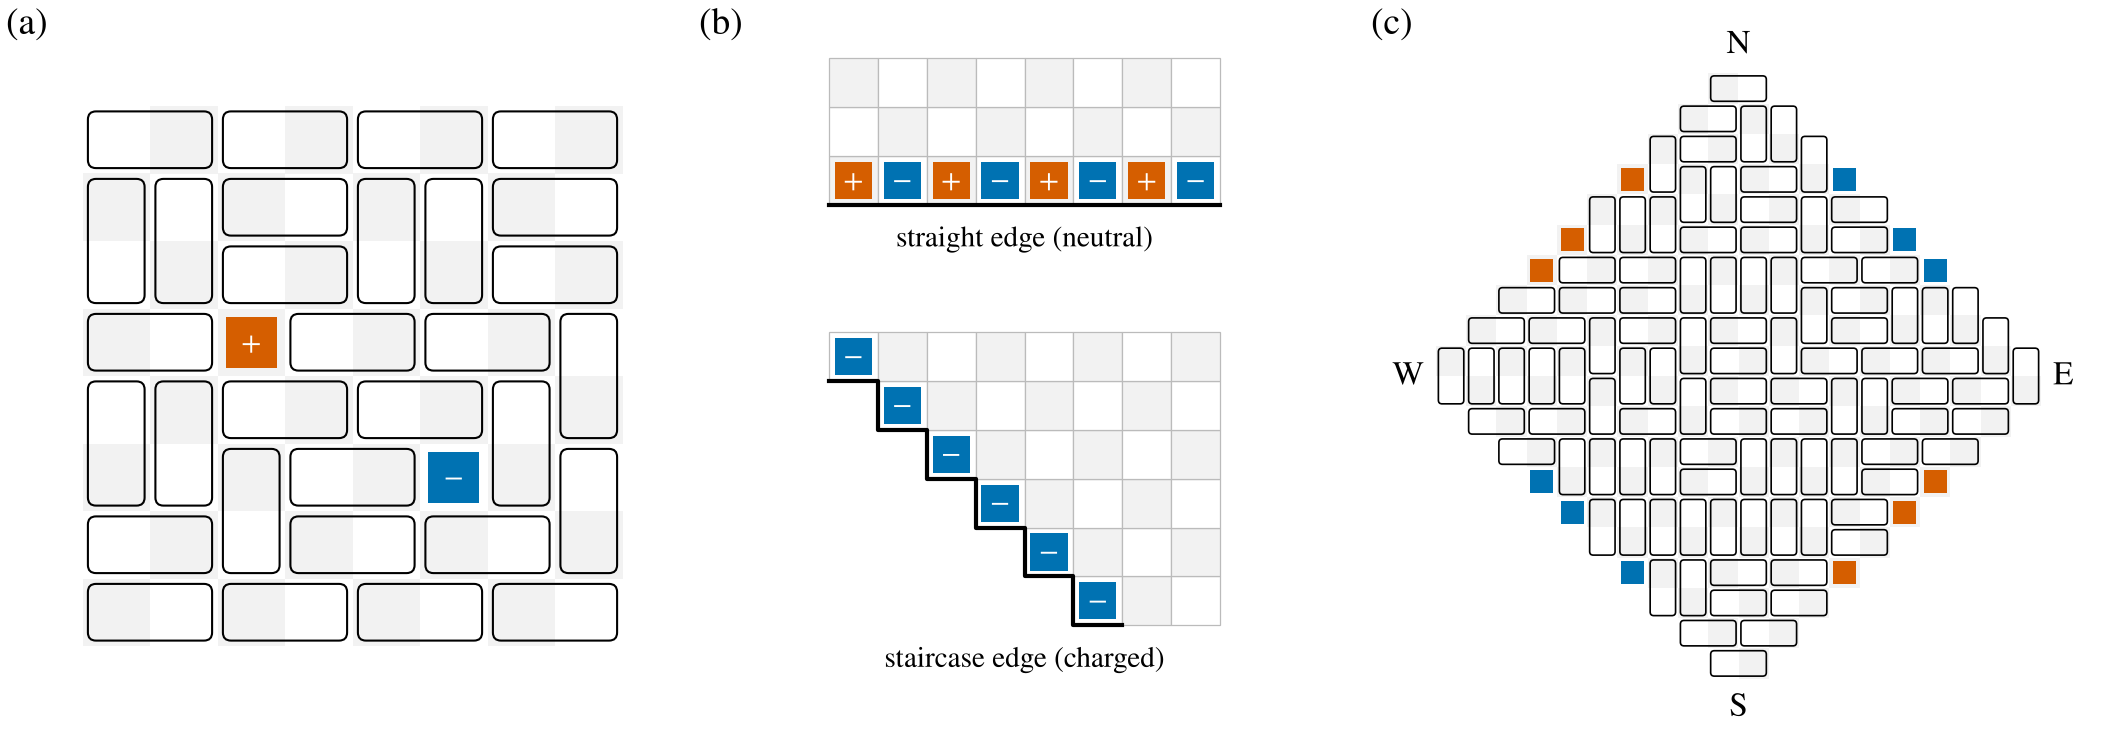
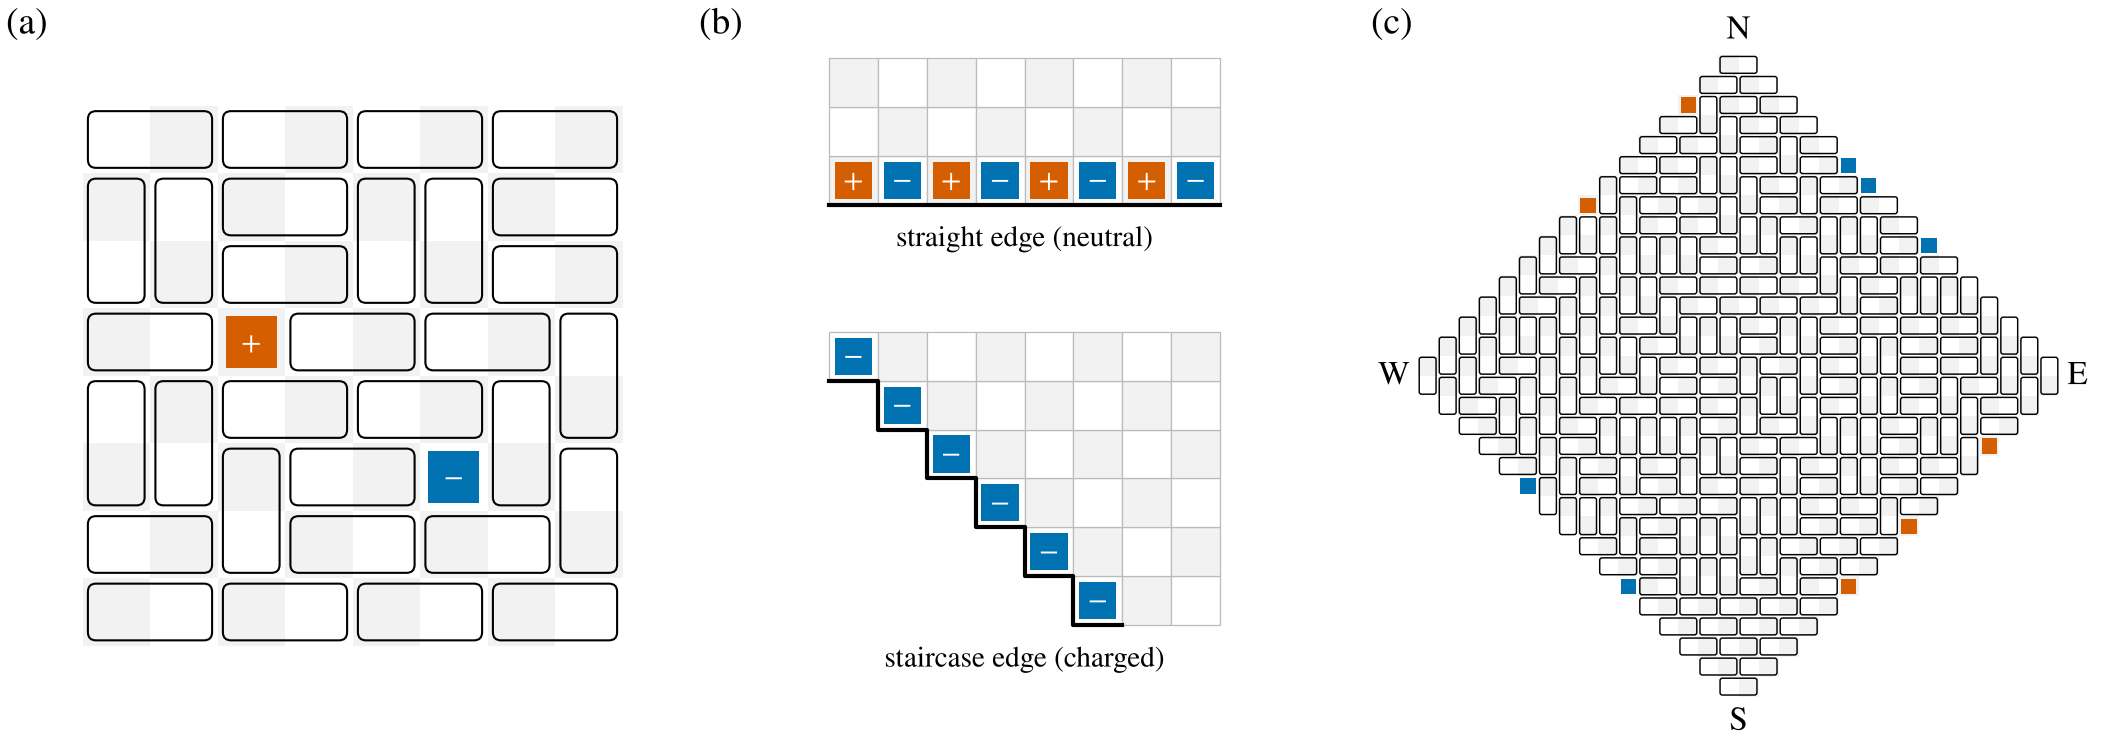
Fig. 1(c): equilibrium sample instead of an arbitrary matching
Sampler for the boundary-vacancy Aztec diamond (Metropolis on the vacancy set
with Kasteleyn determinants, exact sequential sampling of the tiling).
Checked against exact edge densities at N=24, x=0.5.

Claude-Session: https://claude.ai/code/session_01FZuPgFiDrKu5WQzY5zLccF

diff --git a/figures/sample_aztec.py b/figures/sample_aztec.py
@@ -1,0 +1,53 @@
+"""Equilibrium sample of the Aztec diamond with boundary vacancies (fugacity z per vacancy).
+Vacancy set: Metropolis on subsets S of the 4N boundary cells with weight z^|S| M(G\\S), M = number of perfect matchings (Kasteleyn determinant).
+Tiling given S: exact sequential sampling from the inverse Kasteleyn matrix."""
+import sys, pickle, numpy as np
+def geometry(N):
+    cells = [(x, y) for y in range(2 * N) for x in range(2 * N) if abs(x - N + .5) + abs(y - N + .5) <= N]
+    edge = [[(N - 1 - p, p), (N + p, p), (N + p, 2 * N - 1 - p), (N - 1 - p, 2 * N - 1 - p)][e] for e in range(4) for p in range(N)]
+    return cells, edge
+def kast(cells, S=()):
+    S = set(S); B = [c for c in cells if (c[0] + c[1]) % 2 == 0 and c not in S]; W = [c for c in cells if (c[0] + c[1]) % 2 == 1 and c not in S]
+    iw = {c: i for i, c in enumerate(W)}; K = np.zeros((len(B), len(W)), complex)
+    for i, (x, y) in enumerate(B):
+        for dx, dy, w in ((1, 0, 1), (-1, 0, 1), (0, 1, 1j), (0, -1, 1j)):
+            j = iw.get((x + dx, y + dy));
+            if j is not None: K[i, j] = w
+    return B, W, K
+def lnM(cells, S):
+    B, W, K = kast(cells, S)
+    return -np.inf if len(B) != len(W) else np.linalg.slogdet(K)[1]
+def run(N, x, nstep, rng, burn=0, every=0):
+    z = 2.0 ** (-x * N / 2); cells, edge = geometry(N)
+    ev = [c for c in edge if sum(c) % 2 == 0]; od = [c for c in edge if sum(c) % 2 == 1]
+    S = set(); l = lnM(cells, S); occ = np.zeros(4 * N); nacc = ns = 0; idx = {c: i for i, c in enumerate(edge)}
+    for t in range(nstep):
+        a = ev[rng.integers(len(ev))]; b = od[rng.integers(len(od))]
+        if (a in S) == (b in S):                      # create or annihilate a +/- pair
+            S2 = S ^ {a, b}; dz = 2 * np.log(z) * (1 if a not in S else -1)
+        else:                                         # move a vacancy within its sublattice
+            L = ev if rng.random() < .5 else od; a = L[rng.integers(len(L))]; b = L[rng.integers(len(L))]
+            if (a in S) == (b in S): S2 = None
+            else: S2 = S ^ {a, b}; dz = 0.0
+        if S2 is not None:
+            l2 = lnM(cells, S2)
+            if np.log(rng.random()) < l2 - l + dz: S, l = S2, l2; nacc += 1
+        if t >= burn:
+            ns += 1
+            for c in S: occ[idx[c]] += 1
+    return cells, S, occ / max(ns, 1), nacc / nstep
+def tiling(cells, S, rng):
+    cells = [c for c in cells if c not in S]; dom = []
+    while cells:
+        B, W, K = kast(cells); Ki = np.linalg.inv(K); p = np.abs(K[0] * Ki[:, 0]); p /= p.sum(); j = rng.choice(len(W), p=p)
+        dom.append((B[0], W[j])); cells = [c for c in cells if c != B[0] and c != W[j]]
+    return dom
+if __name__ == "__main__":
+    mode = sys.argv[1]; rng = np.random.default_rng(int(sys.argv[2]) if len(sys.argv) > 2 else 1)
+    if mode == "check":                               # compare the edge profile with the exact boundary-Pfaffian values
+        N, x = 24, 0.5; cells, S, occ, acc = run(N, x, 60000, rng, burn=5000)
+        ref = pickle.load(open("../data/smallx.pkl", "rb"))[(N, x)][1]; mc = occ.reshape(4, N).mean(0)
+        print("acceptance %.2f" % acc); print("exact ", np.round(ref[:N], 3)); print("MC    ", np.round(mc, 3)); print("max |diff| %.3f, mean total %.3f vs %.3f" % (abs(mc - ref[:N]).max(), mc.sum(), ref[:N].sum()))
+    else:
+        N, x = 16, 0.5; cells, S, occ, acc = run(N, x, 40000, rng)
+        pickle.dump(dict(N=N, x=x, vac=sorted(S), dominoes=tiling(cells, S, rng)), open("../data/fig1_sample.pkl", "wb")); print("N", N, "x", x, "vacancies", sorted(S), "acc %.2f" % acc)

diff --git a/figures/fig1_model.py b/figures/fig1_model.py
@@ -1,5 +1,5 @@
 """Fig. 1: vacancies as sublattice charges, the two boundary types, and an Aztec diamond with boundary vacancies."""
-import numpy as np, matplotlib.pyplot as plt
+import pickle, numpy as np, matplotlib.pyplot as plt
 from matplotlib.patches import Rectangle, FancyBboxPatch
 from scipy.optimize import linear_sum_assignment
 from style import *
@@ -52,10 +52,9 @@ ax.plot(xs[1:], ys[1:], "k-", lw=1.0); ax.text(4, -0.4, "staircase edge (charged
 ax.set_xlim(-.3, 8.3); ax.set_ylim(-1.6, 11.8); ax.set_aspect("equal"); ax.axis("off")
 # (c) Aztec diamond with boundary vacancies
 ax = fig.add_axes([0.66, 0.0, 0.34, 0.96]); fig.text(0.655, Y, "(c)", fontsize=9, va="top")
-N = 10; cells = [(x, y) for y in range(2 * N) for x in range(2 * N) if abs(x - N + .5) + abs(y - N + .5) <= N]
-def edge_cell(e, p): return [(N - 1 - p, p), (N + p, p), (N + p, 2 * N - 1 - p), (N - 1 - p, 2 * N - 1 - p)][e]
-rem = [edge_cell(e, p) for e in range(4) for p in (3, 5, 6)]
-draw_tiling(ax, cells, matching(cells, rem), [], lw=0.4); [vac(ax, *c, sign=False) for c in rem]
+smp = pickle.load(open("../data/fig1_sample.pkl", "rb")); N = smp["N"]     # equilibrium sample, made by sample_aztec.py
+cells = [(x, y) for y in range(2 * N) for x in range(2 * N) if abs(x - N + .5) + abs(y - N + .5) <= N]
+draw_tiling(ax, cells, smp["dominoes"], [], lw=0.35); [vac(ax, *c, sign=False) for c in smp["vac"]]
 for t, (x, y), ha, va in (("S", (N, -0.4), "center", "top"), ("N", (N, 2 * N + .4), "center", "bottom"), ("W", (-0.4, N), "right", "center"), ("E", (2 * N + .4, N), "left", "center")):
     ax.text(x, y, t, ha=ha, va=va, fontsize=8)
 ax.set_xlim(-1.8, 2 * N + 1.8); ax.set_ylim(-1.8, 2 * N + 1.8)

diff --git a/figures/README.md b/figures/README.md
@@ -5,7 +5,7 @@ Run from this folder; each script writes `<name>.pdf` (vector, for submission) a
 
 | Figure | Command | Input |
 |---|---|---|
-| 1 model, boundary types, Aztec diamond | `python3 fig1_model.py` | none (schematic) |
+| 1 model, boundary types, Aztec diamond | `python3 fig1_model.py` | `../data/fig1_sample.pkl` (made by `python3 sample_aztec.py sample 11`; `python3 sample_aztec.py check 3` compares the sampler with exact edge densities) |
 | 2 isotherms of uniform geometries | `python3 fig2_isotherms.py` | computed (`../isotherms`) |
 | 3 corner charges, reflection, hodograph sector | `python3 fig3_corner_charges.py` | exact solution (`../corner_islands`) |
 | 4 uncompensated fraction | `python3 fig4_sigma.py` | `../data/bx_exact.pkl` |
